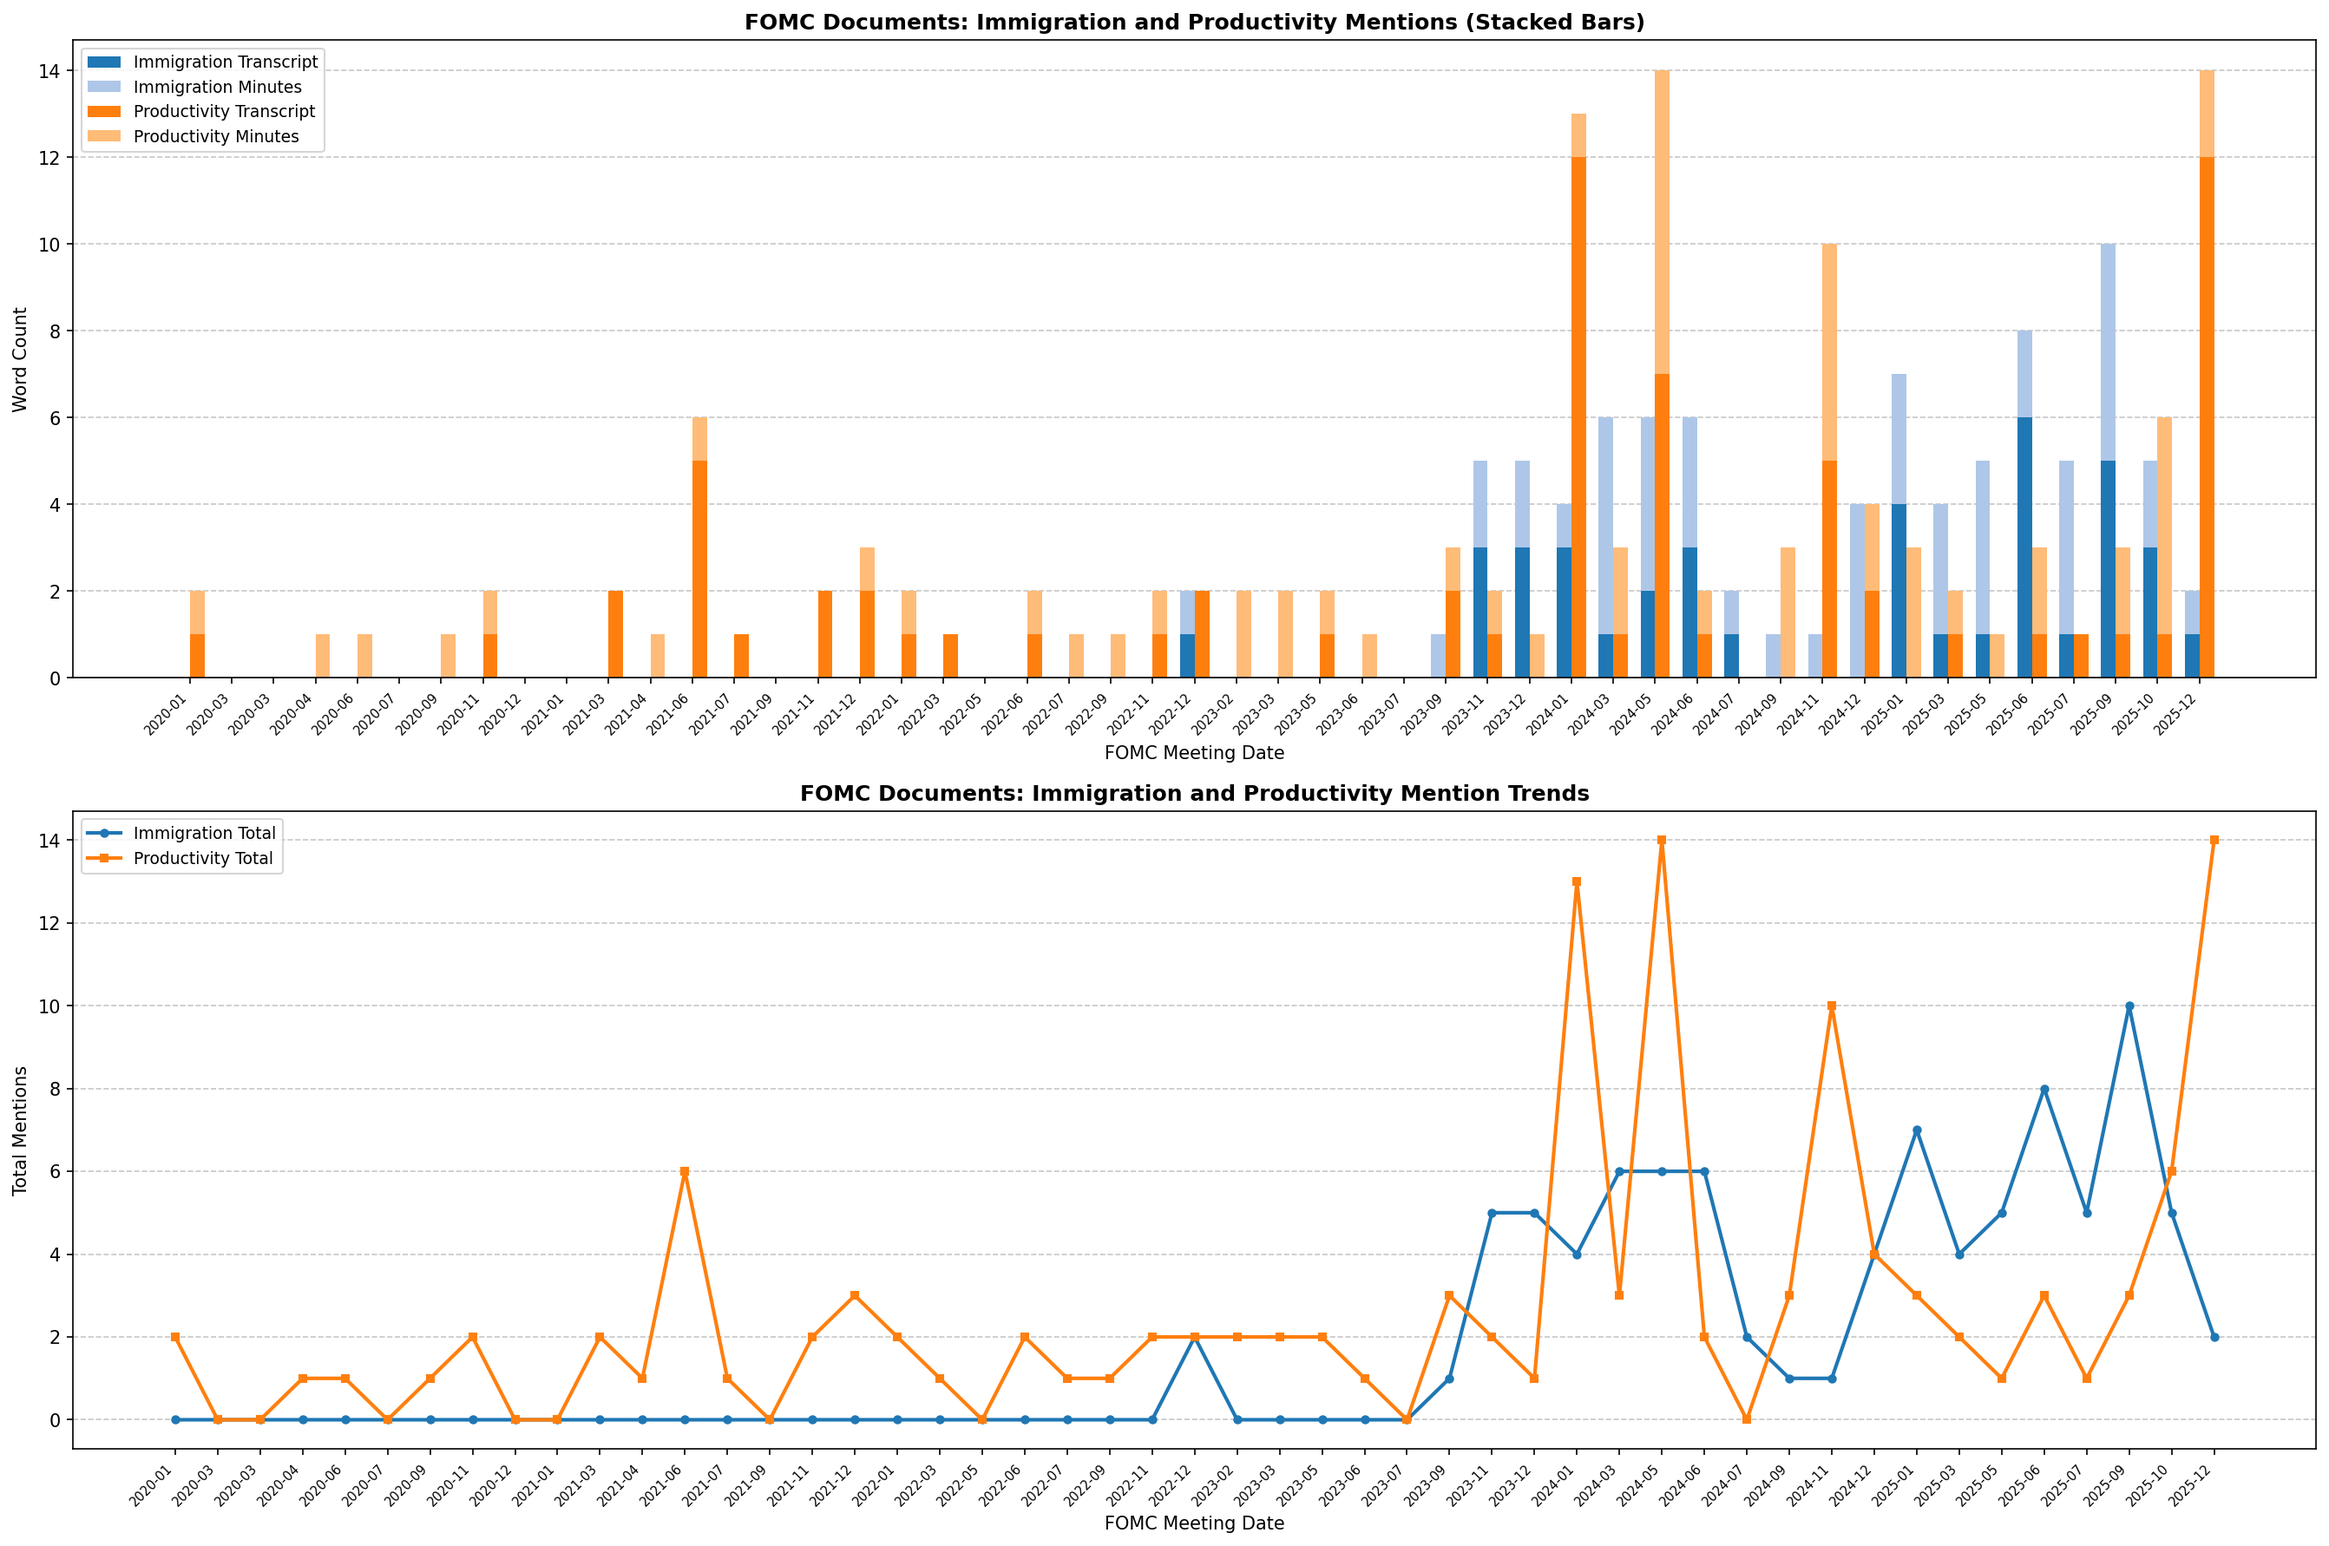
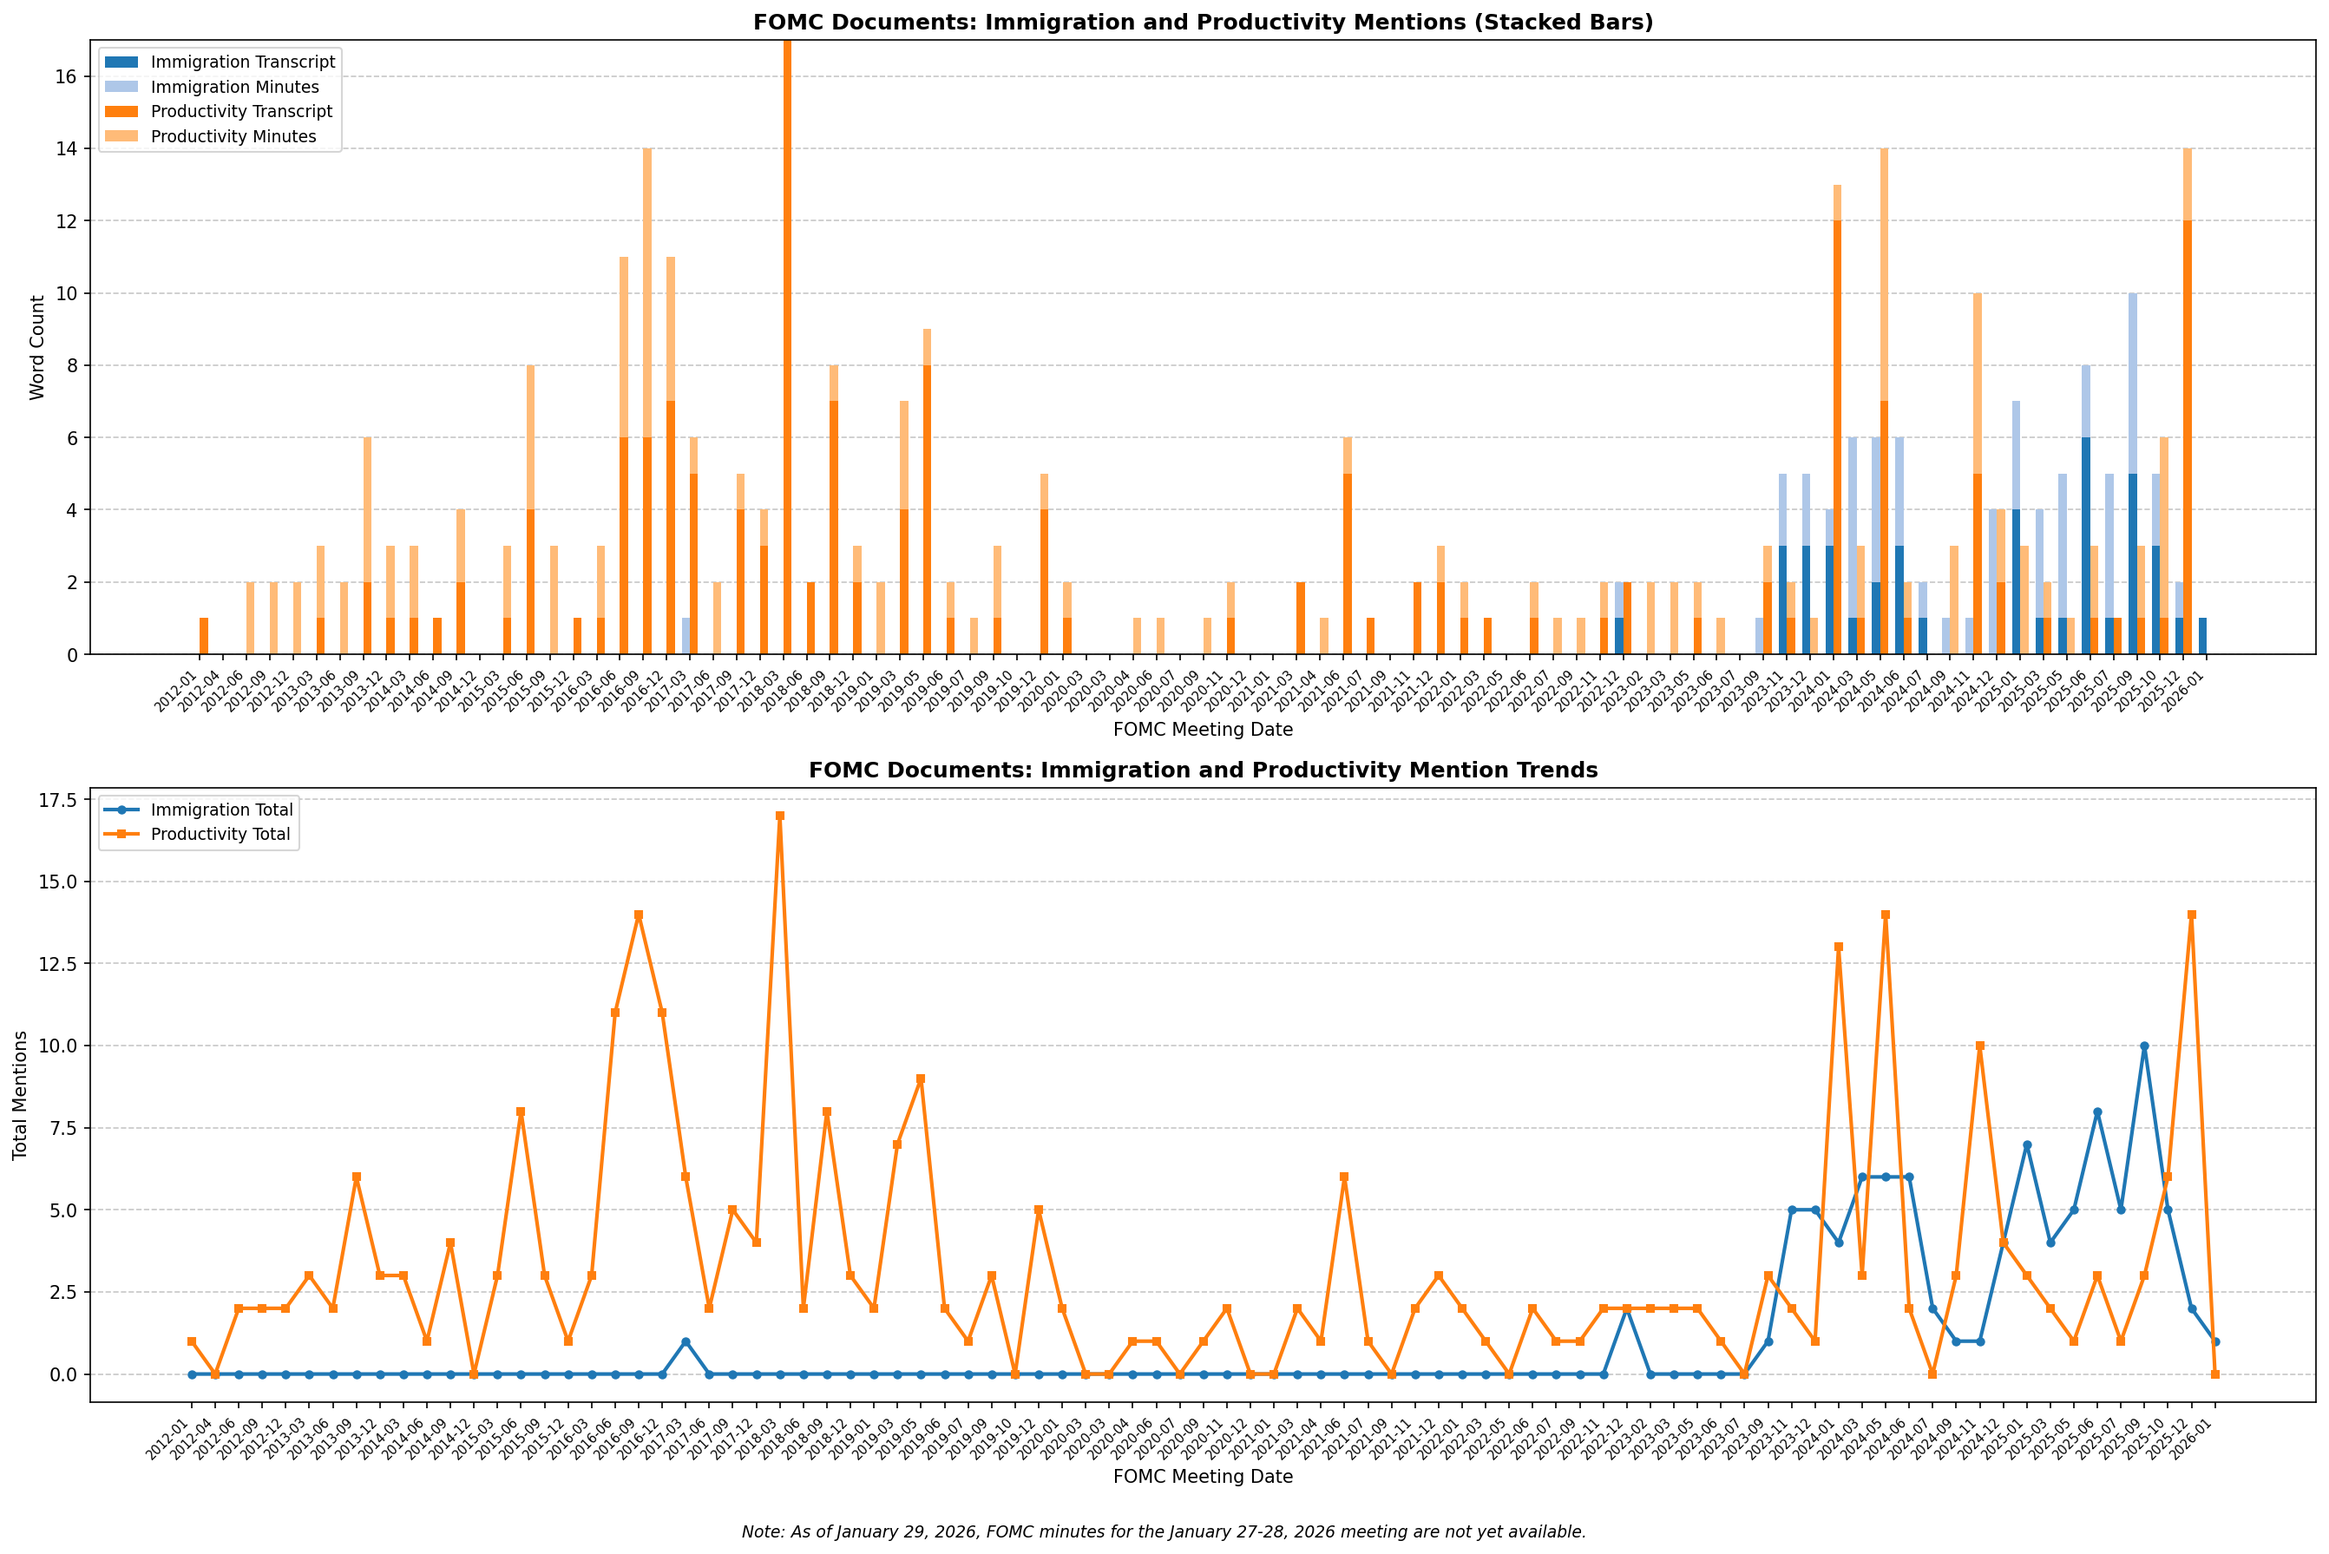
Add dynamic FOMC meeting date scraping and extend data to 2012-2026
- Update fetch_meeting_dates() to merge scraped dates with fallback dates
- Add pattern for press conference page links to catch new meetings
- Extend dataset from 2020-2025 to 2012-2026 (87 meetings, 344 records)
- Add footnote to visualizations noting Jan 2026 minutes not yet available

diff --git a/src/download_documents.py b/src/download_documents.py
@@ -7,11 +7,15 @@ from 2020-2025.
 """
 
 import os
+import re
 from pathlib import Path
 import requests
 
-# All FOMC meeting dates from 2020-2025 (YYYYMMDD format)
-MEETING_DATES = [
+# FOMC calendar page for dynamic date fetching
+CALENDAR_URL = "https://www.federalreserve.gov/monetarypolicy/fomccalendars.htm"
+
+# Fallback FOMC meeting dates (used if scraping fails)
+FALLBACK_MEETING_DATES = [
     # 2020
     "20200129", "20200303", "20200315", "20200429", "20200610",
     "20200729", "20200916", "20201105", "20201216",
@@ -40,6 +44,42 @@ MINUTES_URL = "https://www.federalreserve.gov/monetarypolicy/files/fomcminutes{d
 BASE_DIR = Path(__file__).parent.parent
 TRANSCRIPTS_DIR = BASE_DIR / "data" / "transcripts"
 MINUTES_DIR = BASE_DIR / "data" / "minutes"
+
+
+def fetch_meeting_dates():
+    """Fetch FOMC meeting dates, combining fallback dates with scraped dates."""
+    # Start with fallback dates (ensures historical coverage)
+    all_dates = set(FALLBACK_MEETING_DATES)
+
+    try:
+        response = requests.get(CALENDAR_URL, timeout=30)
+        response.raise_for_status()
+
+        # Extract dates from document links
+        date_pattern = r'fomcminutes(\d{8})\.pdf'
+        scraped = set(re.findall(date_pattern, response.text))
+
+        # Also check transcript links for very recent meetings
+        transcript_pattern = r'FOMCpresconf(\d{8})\.pdf'
+        scraped.update(re.findall(transcript_pattern, response.text))
+
+        # Check press conference page links (handles both fomcpresconf and fomcpressconf)
+        pressconf_pattern = r'fomcpress?conf(\d{8})\.htm'
+        scraped.update(re.findall(pressconf_pattern, response.text))
+
+        if scraped:
+            new_dates = scraped - all_dates
+            if new_dates:
+                print(f"Found {len(new_dates)} new meeting dates: {sorted(new_dates)}")
+            all_dates.update(scraped)
+    except Exception as e:
+        print(f"Warning: Could not fetch calendar ({e}), using fallback dates only")
+
+    return sorted(all_dates)
+
+
+# Fetch meeting dates at module load (merges fallback + scraped)
+MEETING_DATES = fetch_meeting_dates()
 
 
 def download_file(url, output_path):

diff --git a/src/create_visualization.py b/src/create_visualization.py
@@ -48,6 +48,9 @@ def load_data():
     }
 
 
+FOOTNOTE = "Note: As of January 29, 2026, FOMC minutes for the January 27-28, 2026 meeting are not yet available."
+
+
 def draw_bar_chart(ax, data):
     """Draw grouped stacked bar chart on given axes."""
     sorted_dates = data['dates']
@@ -142,7 +145,8 @@ def create_visualization():
     fig, (ax1, ax2) = plt.subplots(2, 1, figsize=(18, 12))
     draw_bar_chart(ax1, data)
     draw_line_chart(ax2, data)
-    plt.tight_layout()
+    fig.text(0.5, 0.01, FOOTNOTE, ha='center', fontsize=9, style='italic')
+    plt.tight_layout(rect=[0, 0.03, 1, 1])
     combined_path = OUTPUT_DIR / "fomc_word_trends.png"
     plt.savefig(combined_path, dpi=150, bbox_inches='tight')
     plt.close()
@@ -151,7 +155,8 @@ def create_visualization():
     # 2. Bar chart only
     fig, ax = plt.subplots(figsize=(18, 8))
     draw_bar_chart(ax, data)
-    plt.tight_layout()
+    fig.text(0.5, 0.01, FOOTNOTE, ha='center', fontsize=9, style='italic')
+    plt.tight_layout(rect=[0, 0.03, 1, 1])
     bars_path = OUTPUT_DIR / "fomc_word_trends_bars.png"
     plt.savefig(bars_path, dpi=150, bbox_inches='tight')
     plt.close()
@@ -160,7 +165,8 @@ def create_visualization():
     # 3. Line chart only
     fig, ax = plt.subplots(figsize=(18, 6))
     draw_line_chart(ax, data)
-    plt.tight_layout()
+    fig.text(0.5, 0.01, FOOTNOTE, ha='center', fontsize=9, style='italic')
+    plt.tight_layout(rect=[0, 0.04, 1, 1])
     lines_path = OUTPUT_DIR / "fomc_word_trends_lines.png"
     plt.savefig(lines_path, dpi=150, bbox_inches='tight')
     plt.close()
